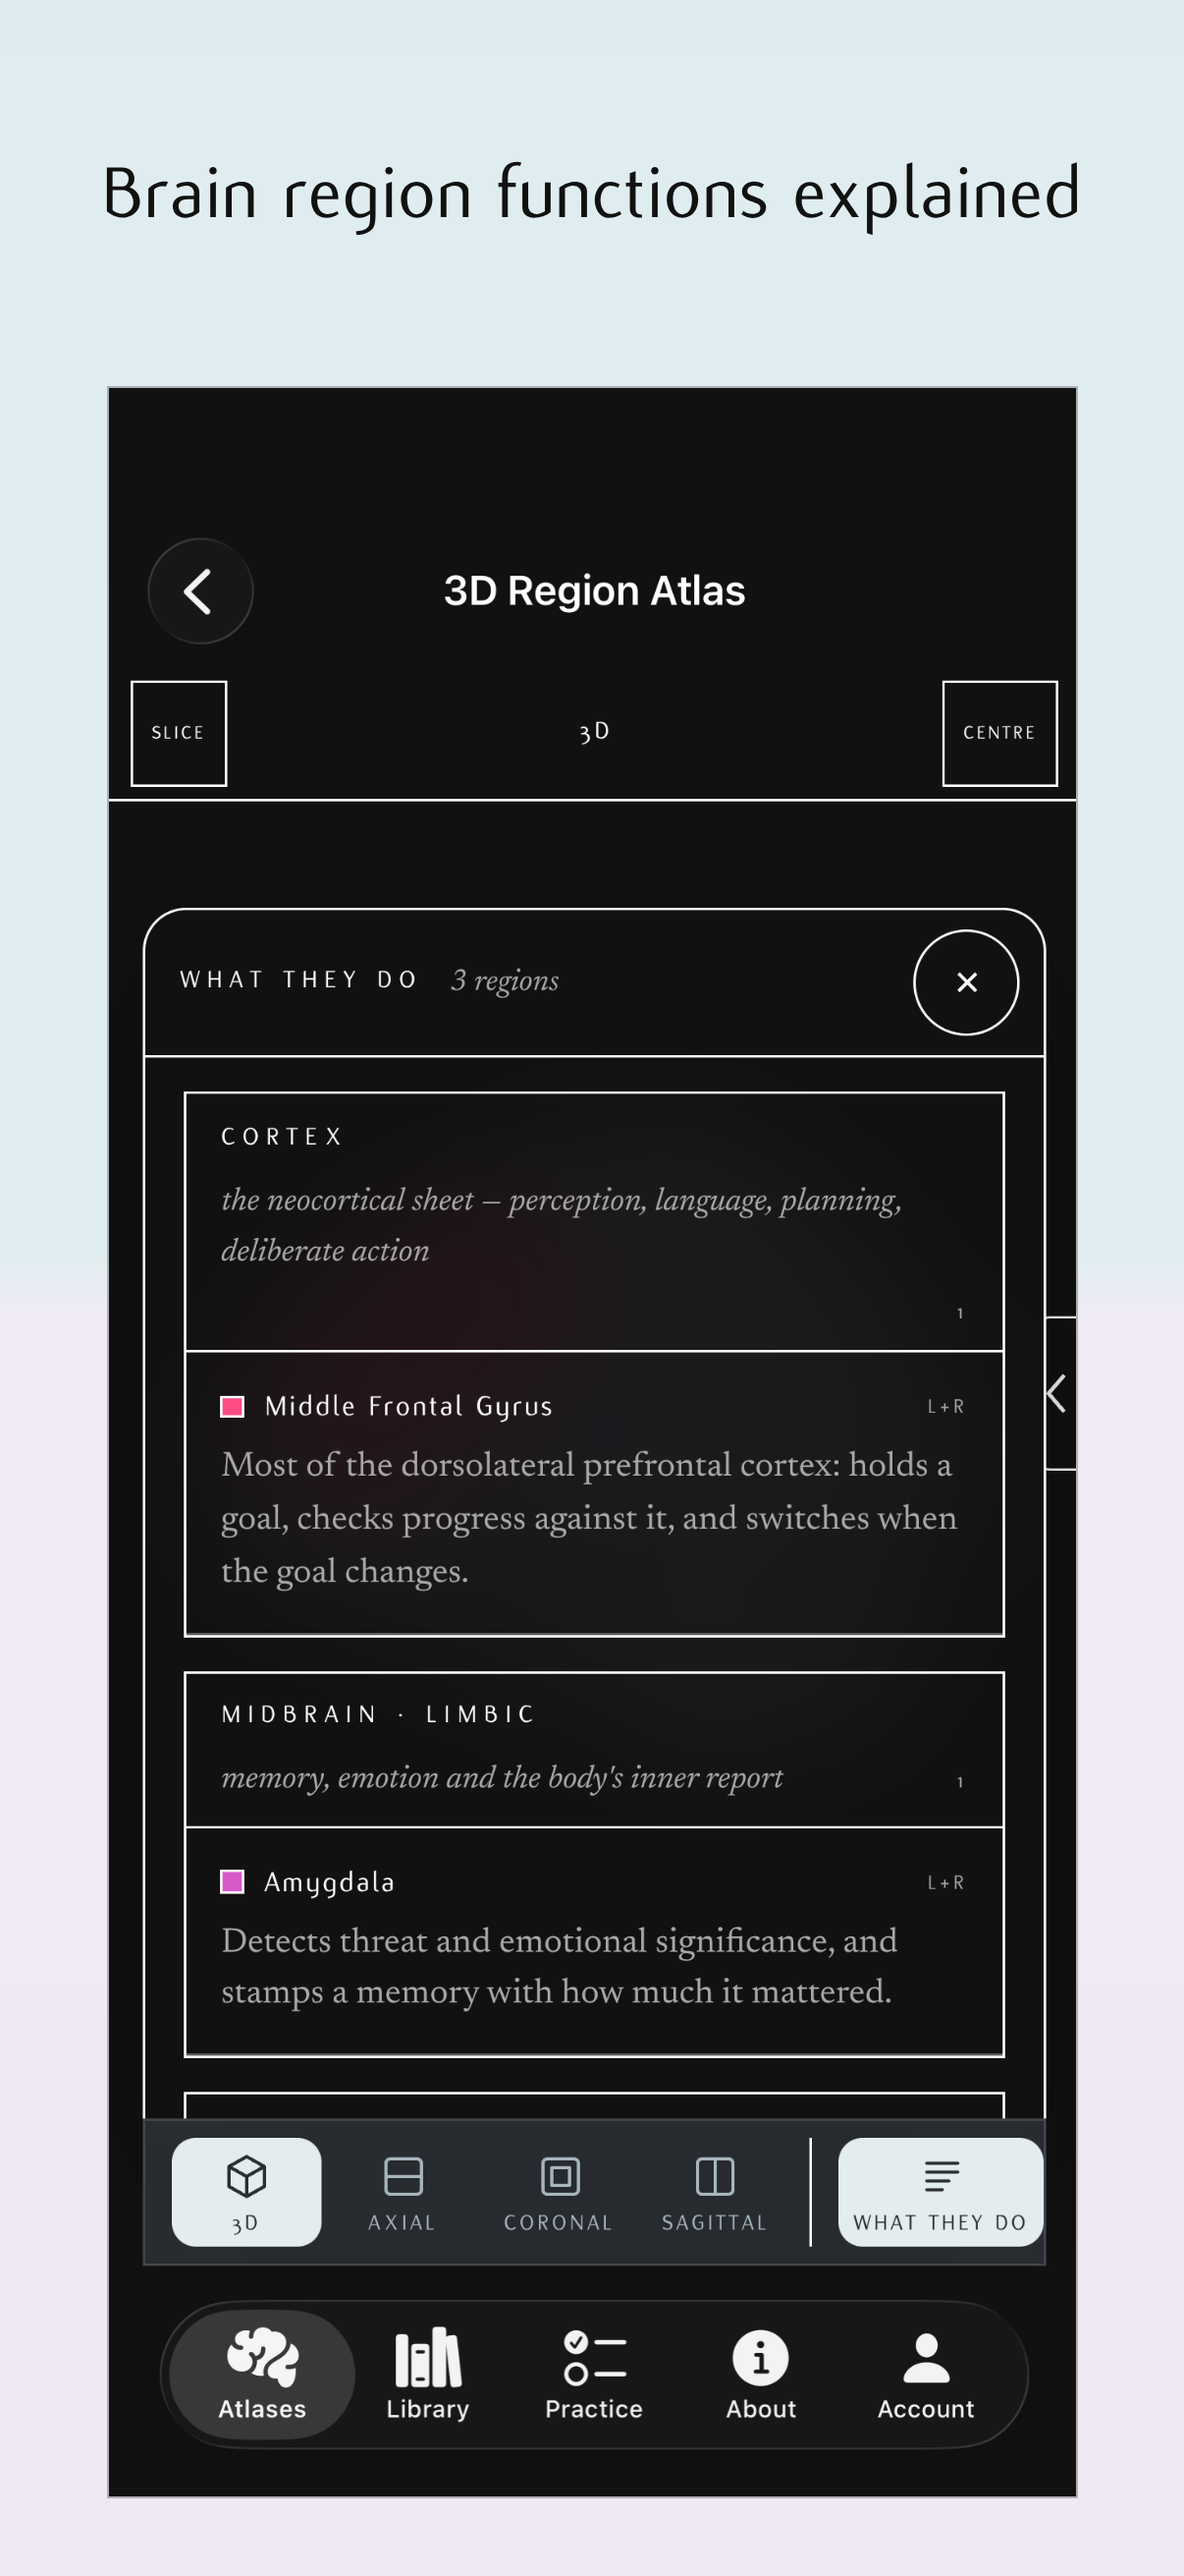
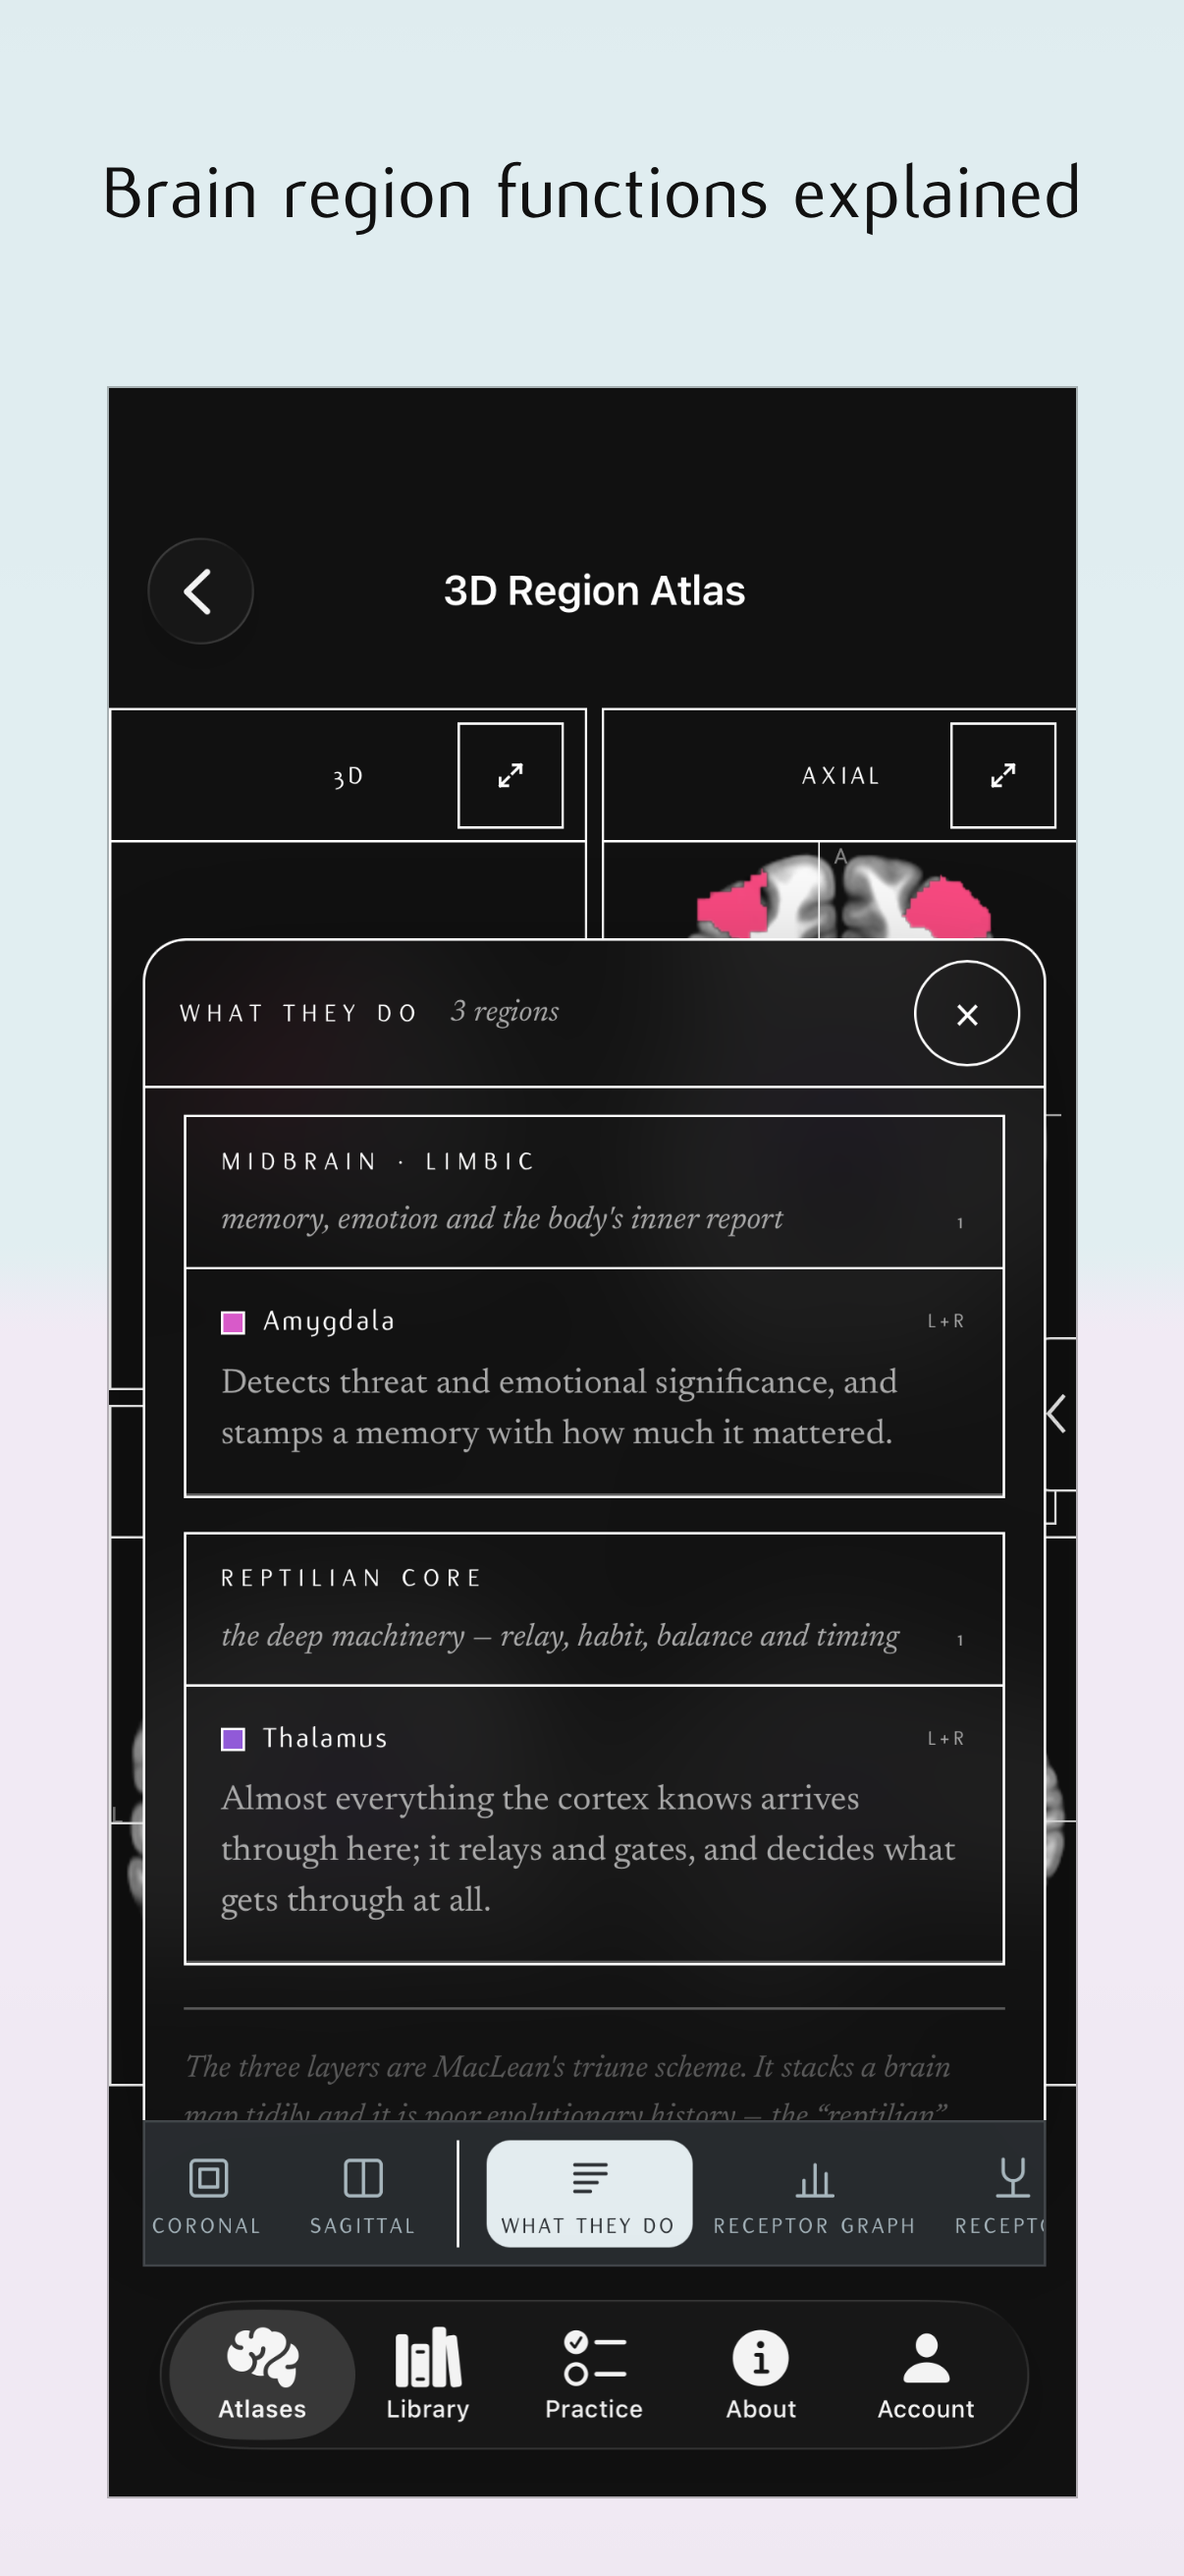
Make the iPhone's first two store images from the owner's captures
At the owner's word the iPhone's first two App Store images are the owner's captures from the TestFlight build, the atlas's four views and the What they do window over them, taken whole by the remake script's new capture mode, which paints the Best experienced on iPad line out in the page's black as the renders hide it.

diff --git a/app/scripts/remake-store-images.js b/app/scripts/remake-store-images.js
@@ -151,13 +151,15 @@ const SHOTS = [
     top: 'ipad-top-dark-practice', out: '08-practice.png', statement: 'Revision question testing' },
   { name: 'ipad-09', dev: 'ipad', theme: 'light', url: 'regions.html', ready: atlasReady,
     top: 'ipad-top-light-atlases', out: '02-atlas-light.png', statement: 'Light mode' },
-  { name: 'iphone-01', dev: 'iphone', theme: 'dark', url: 'regions.html#sel=' + enc(SEL_PH), ready: atlasReady,
-    top: 'iphone-top-dark-3d-region-atlas', bottom: 'iphone-bottom-dark-atlases', out: '02-atlas.png', statement: 'Human Brain Anatomy:|Interactive 3D Brain Atlas' },
-  /* the What they do window over the 3D view, as on the iPad, since the
-     statement speaks of the regions' functions */
-  { name: 'iphone-02', dev: 'iphone', theme: 'dark', url: 'regions.html#sel=' + enc(SEL_PH), ready: atlasReady,
-    setup: async p => { await p.click('.panelbar [data-view="render"]'); await p.waitForTimeout(2500); await openPop('popNotes')(p); },
-    top: 'iphone-top-dark-3d-region-atlas', bottom: 'iphone-bottom-dark-atlases', out: '02-atlas-what-they-do.png', statement: 'Brain region functions explained' },
+  /* the first two on the iPhone are the owner's own captures from the
+     TestFlight build, 25 October 2026, taken whole: the atlas's four views
+     with the three regions lit, and the What they do window over them; the
+     one line a phone shows at the top, Best experienced on iPad, is painted
+     out in the page's black (cover: x, y, width, height in the capture) */
+  { name: 'iphone-01', dev: 'iphone', capture: 'iphone-capture-atlas', cover: [[440, 360, 326, 28]],
+    out: '02-atlas.png', statement: 'Human Brain Anatomy:|Interactive 3D Brain Atlas' },
+  { name: 'iphone-02', dev: 'iphone', capture: 'iphone-capture-what-they-do', cover: [[440, 360, 326, 28]],
+    out: '02-atlas-what-they-do.png', statement: 'Brain region functions explained' },
   { name: 'iphone-03', dev: 'iphone', theme: 'dark', url: 'regions.html#sel=' + enc(SEL_PH), ready: atlasReady, setup: chartD2,
     top: 'iphone-top-dark-3d-region-atlas', bottom: 'iphone-bottom-dark-atlases', out: '02-atlas-receptor-graph.png', statement: 'Receptor Density|Data by Brain Region' },
   { name: 'iphone-04', dev: 'iphone', theme: 'dark', url: 'regions.html#sel=' + enc(SEL_PH), ready: atlasReady, setup: figsD2,
@@ -207,7 +209,10 @@ const px = n => n + 'px';
 async function join(browser, shot, renderPath, outPath){
   const d = DEV[shot.dev], [W, H] = d.capture;
   const layers = [];
-  if (shot.native){
+  if (shot.capture){
+    layers.push(`<img src="${dataUrl(path.join(CHROME, shot.capture + '.png'))}" style="left:0;top:0">`);
+    for (const [x, y, w, h] of shot.cover || []) layers.push(`<div style="position:absolute;left:${px(x)};top:${px(y)};width:${px(w)};height:${px(h)};background:#111111"></div>`);
+  } else if (shot.native){
     /* the screen whole; the twin at the old picture's width, its height
        following; the words beneath, up to the tab bar, moved down by the
        difference, in a window that shows just them */
@@ -242,7 +247,7 @@ async function join(browser, shot, renderPath, outPath){
     const t0 = Date.now();
     try {
       const render = path.join(work, s.name + '.png');
-      if (!s.native){
+      if (!s.native && !s.capture){
         const d = DEV[s.dev], problems = [];
         const ctx = await browser.newContext({ viewport: { width: d.w, height: d.h }, deviceScaleFactor: d.dpr, isMobile: true, hasTouch: true });
         await ctx.addInitScript(shell, { pad: d.pad, theme: s.theme, store: s.store || {} });

diff --git a/CLAUDE.md b/CLAUDE.md
@@ -556,9 +556,11 @@ Read this first in every session. It is the handover; nothing else needs pasting
   since October 2026 (the 6.9-inch refused there as "File dimensions are invalid"), and `iphone-6.9-` at 1320×2868, now
   optional, to replace 1.0's in that slot, and since v12.20 `iphone-duo-land-` at 2853×2007, the iPhone Duo's inner
   display, from each iPad render (`store-sell.js`'s `SHARE`, the capture at 84% of the width, the status bar's rows
-  read from the capture's shape); the second shot's statement is Brain region functions explained and the iPhone's
-  shows the What they do window over the 3D view as the iPad's does (`openPop` waits for a sheet to come to rest,
-  which at 3× with software 3D takes longer than the slide); the tenth, AI Connector, is `mcp.html` under About strips made from the
+  read from the capture's shape); the second shot's statement is Brain region functions explained (`openPop` waits
+  for a raised sheet to come to rest, which at 3× with software 3D takes longer than the slide); since v12.21 the
+  iPhone's first two are the owner's own captures from the TestFlight build of 25 October 2026, taken whole
+  (`capture`, kept in `app/store/chrome/` as `iphone-capture-atlas` and `iphone-capture-what-they-do`, with the
+  notice line painted out in the page's black by `cover`); the tenth, AI Connector, is `mcp.html` under About strips made from the
   others (`ipad-top-dark-about`, `iphone-top-dark-mcp-server` titled in Inter SemiBold, `iphone-bottom-dark-about` with
   Practice's pill moved under About), and the v12.14 notice line is hidden in every render. Each page rendered as the
   app shows it (the shell's marks and

diff --git a/docs/RELEASES.md b/docs/RELEASES.md
@@ -11,8 +11,13 @@ text below. Both can also be run from a clone on a machine that can push.
 
 Versions before v8.6 were released without a ledger and are not recorded.
 
+## v12.21 — 25 October 2026 — The iPhone's first two images from the device
+Commit · Make the iPhone's first two store images from the owner's captures
+
+The iPhone's first two App Store images are now the owner's own captures from the app: the 3D Region Atlas's four views with the three regions lit, and the What they do window open over them. The Best experienced on iPad line at the top is painted out, as it is in the rest of the set.
+
 ## v12.20 — 25 October 2026 — Brain region functions explained, and the iPhone Duo
-Commit · Retitle the region images, show the explanations on the iPhone and add the iPhone Duo set
+Commit `08f0c95` · Retitle the region images, show the explanations on the iPhone and add the iPhone Duo set
 
 The second App Store image now reads Brain region functions explained, and on the iPhone it shows what the regions do, the What they do window open over the 3D view as on the iPad, where it showed only the brain. Every image also comes in the iPhone Duo's size, the unfolded inner display at 2853 by 2007, made from the same render as the iPad's.
 

diff --git a/app/store/LISTING.md b/app/store/LISTING.md
@@ -184,7 +184,10 @@ with the back button and the island on the iPad, the bar with the page's
 title and the tab bar on the iPhone), and set under its statement by
 `store-sell.js`. The Atlases tab in light mode is the app's own screen, so
 that image keeps its capture whole and only the atlas box's picture, the
-home page's light twin, is set in afresh. The tenth, AI Connector, is the
+home page's light twin, is set in afresh. The iPhone's first two, the
+atlas's four views and the What they do window over them, are the owner's
+own captures from the TestFlight build of 25 October, taken whole with the
+Best experienced on iPad line painted out. The tenth, AI Connector, is the
 MCP server's page as the About tab opens it; no capture had About lit on a
 pushed page, so its strips were made from the others (the iPad's island
 from the owner's capture of the About tab, the iPhone's tab bar with
